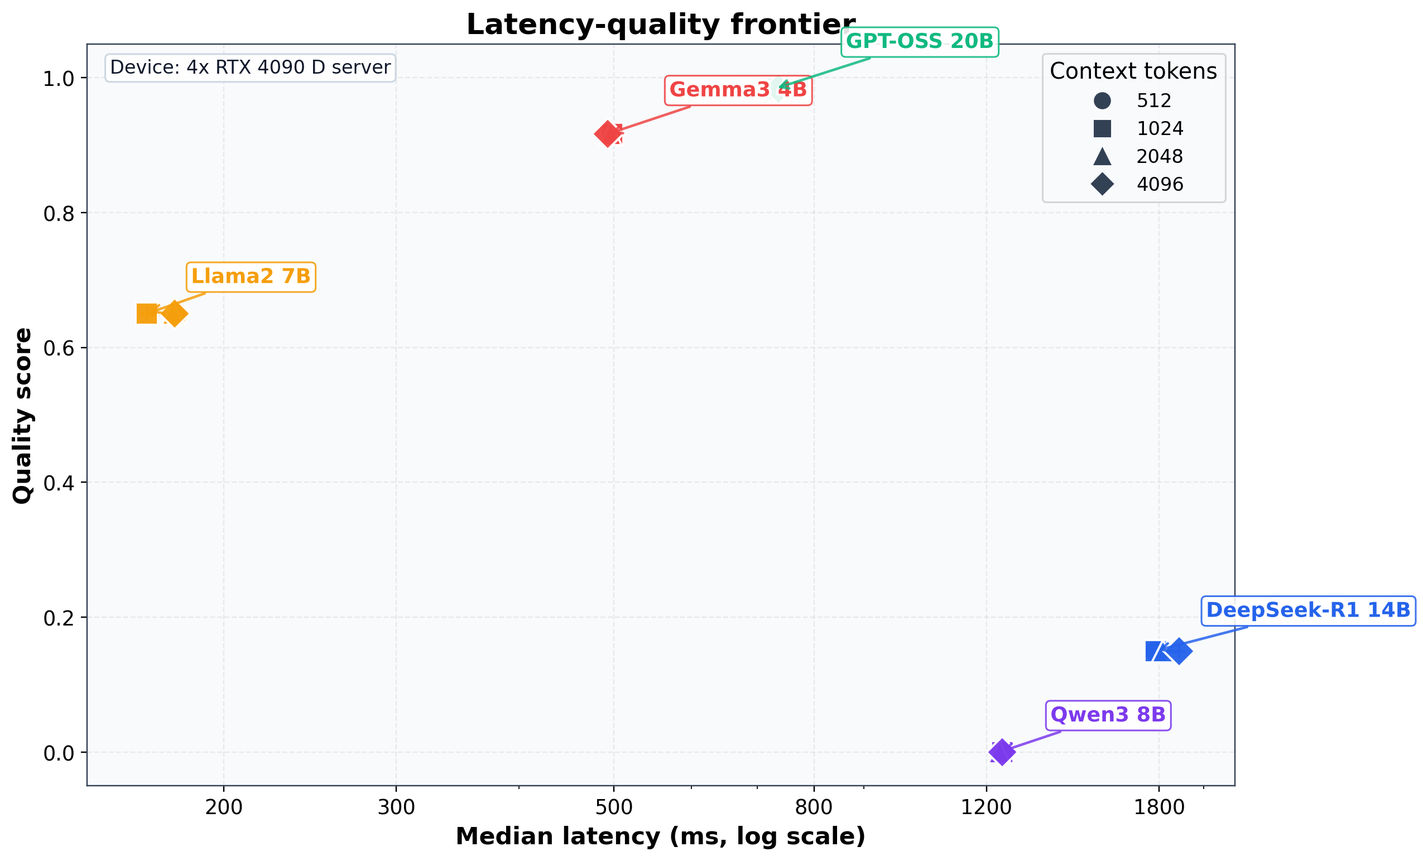
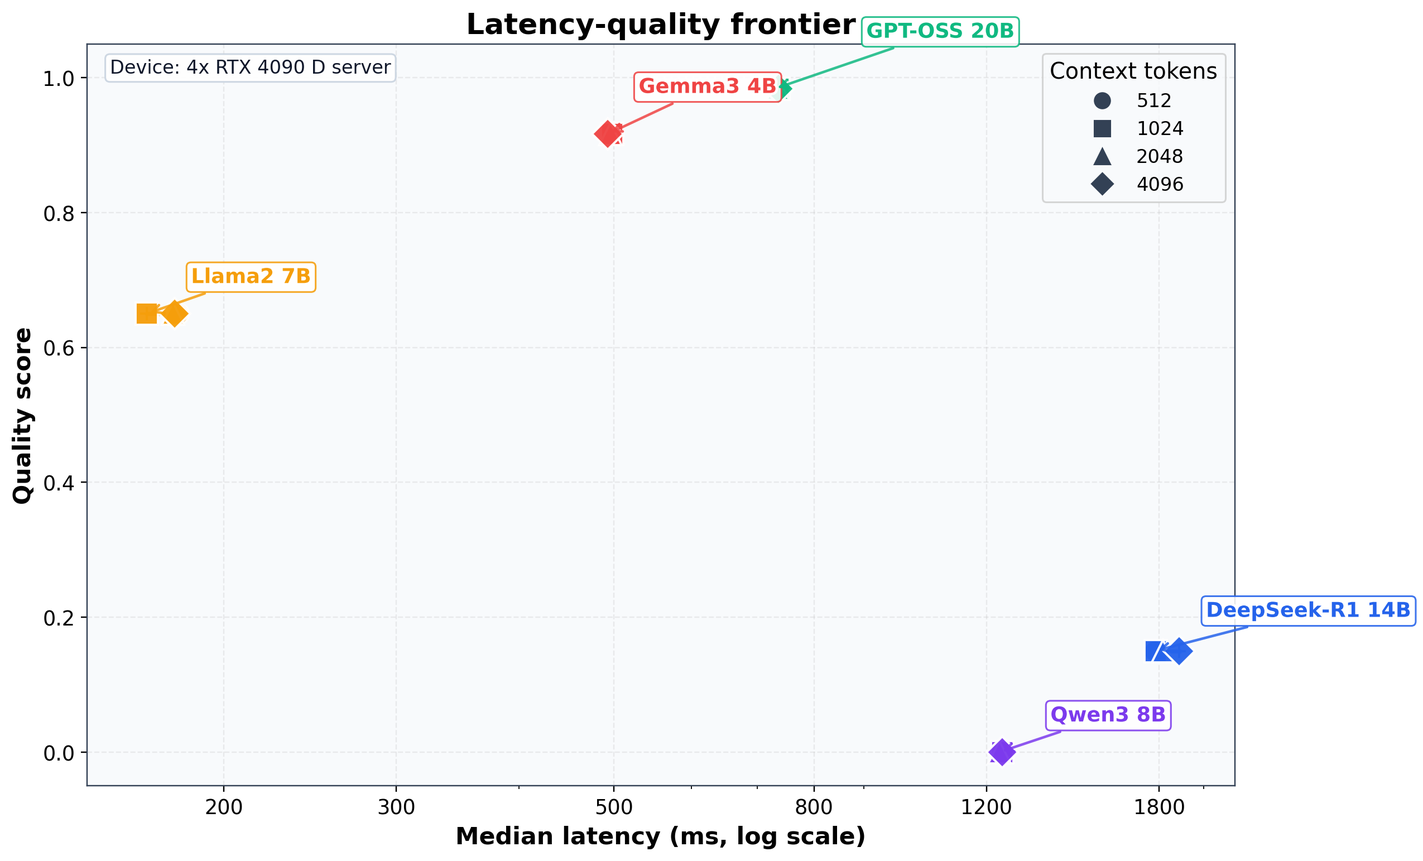
docs: fix figure annotation and enrich reference metadata

Changed region(s): [[0.4337, 0.0, 0.7125, 0.1555]]

diff --git a/README.md b/README.md
@@ -43,8 +43,8 @@ The figure below illustrates a central message of the survey: edge deployment is
 ![Latency-quality frontier on edge hardware](assets/latency-quality-frontier.png)
 
 Figure note:
-- EN: A synchronized benchmark on a 4x RTX 4090 D server shows that GPT-OSS 20B leads on quality, Llama2 7B remains attractive on latency/efficiency, and Gemma3 4B occupies a balanced region. This is exactly why edge deployment must be analyzed as a trade-off surface rather than a single ranking.
-- 中文：在 4x RTX 4090 D 平台上的同步实验表明，GPT-OSS 20B 在质量上更强，Llama2 7B 在时延/效率上仍具吸引力，Gemma3 4B 则处于相对平衡的位置。这说明边缘部署必须以“权衡前沿”而不是“单一排名”来分析。
+- EN: A synchronized benchmark on a 4x RTX 4090 D server shows that GPT-OSS 20B is the green upper-right cluster around 730 ms and 0.98 quality, Llama2 7B remains attractive on latency/efficiency, and Gemma3 4B is the red cluster centered near 495 ms and 0.92 quality. This is exactly why edge deployment must be analyzed as a trade-off surface rather than a single ranking.
+- 中文：在 4x RTX 4090 D 平台上的同步实验表明，GPT-OSS 20B 对应图中右上方的绿色点簇，约位于 730 ms 和 0.98 质量附近；Llama2 7B 在时延/效率上仍具吸引力；Gemma3 4B 对应约 495 ms 和 0.92 质量附近的红色点簇。这说明边缘部署必须以“权衡前沿”而不是“单一排名”来分析。
 
 ## Taxonomy | 分类框架
 
@@ -78,73 +78,77 @@ The list below emphasizes representative papers that help readers quickly unders
 
 下列文献优先选择具有代表性的工作，用于帮助读者快速把握各类别对边缘部署研究分别解决了什么问题。
 
+Direct links are added where a stable publisher page or arXiv record is available.
+
+在存在稳定出版社页面或 arXiv 记录时，下面条目补充了直达链接。
+
 ### A. Foundations
 
-- Shi et al., Edge Computing: Vision and Challenges, IEEE IoT Journal, 2016. Defines the classical edge-computing setting and the resource bottlenecks inherited by later LLM systems.
-- Zhou et al., Edge Intelligence, Proceedings of the IEEE, 2019. Frames AI-at-the-edge as a joint problem of orchestration, service quality, and distributed resource management.
-- Deng et al., Edge intelligence: The confluence of edge computing and AI, IEEE IoT Journal, 2020. Provides the broader pre-LLM systems context needed to understand why edge intelligence evolved toward cognitive edge computing.
+- Shi et al., [Edge Computing: Vision and Challenges](https://doi.org/10.1109/jiot.2016.2579198), IEEE IoT Journal, 2016. Defines the classical edge-computing setting and the resource bottlenecks inherited by later LLM systems.
+- Zhou et al., [Edge Intelligence: Paving the Last Mile of Artificial Intelligence with Edge Computing](https://doi.org/10.1109/jproc.2019.2918951), Proceedings of the IEEE, 2019. Frames AI-at-the-edge as a joint problem of orchestration, service quality, and distributed resource management.
+- Deng et al., [Edge intelligence: The confluence of edge computing and artificial intelligence](https://doi.org/10.1109/jiot.2020.2984887), IEEE IoT Journal, 2020. Provides the broader pre-LLM systems context needed to understand why edge intelligence evolved toward cognitive edge computing.
 - Vaswani et al., Attention Is All You Need, NeurIPS, 2017. Supplies the transformer foundation on which most deployable language models are built.
 - Brown et al., Language Models are Few-Shot Learners, NeurIPS, 2020. Establishes scale-driven in-context learning as the capability target that edge deployment tries to preserve.
 - Wei et al., Emergent Abilities of Large Language Models, TMLR, 2022. Explains why scaling changes model behavior and why compression must protect more than perplexity alone.
-- Lu et al., Small Language Models: Survey, Measurements, and Insights, 2024. Maps the compact-model design space that is most relevant to realistic edge deployment.
-- Zheng et al., A Review on Edge Large Language Models: Design, Execution, and Applications, ACM CSUR, 2025. Serves as the closest neighboring review focused specifically on edge-side LLM execution.
+- Lu et al., [Small Language Models: Survey, Measurements, and Insights](https://arxiv.org/abs/2409.15790), 2024. Maps the compact-model design space that is most relevant to realistic edge deployment.
+- Zheng et al., [A Review on Edge Large Language Models: Design, Execution, and Applications](https://doi.org/10.1145/3719664), ACM CSUR, 2025. Serves as the closest neighboring review focused specifically on edge-side LLM execution.
 
 ### B. Deployment Challenges
 
 - Gholami et al., A Survey of Quantization Methods for Efficient Neural Network Inference, 2022. Summarizes the compression toolbox that underlies most practical edge-model reduction pipelines.
-- Nagel et al., A White Paper on Neural Network Quantization, 2021. Clarifies calibration errors, accuracy collapse, and other quantization failure modes faced in deployment.
-- Kwon et al., Efficient Memory Management for LLM Serving with PagedAttention, SOSP, 2023. Demonstrates that serving memory and KV-cache behavior are first-order bottlenecks, not secondary implementation details.
-- Murthy et al., MobileAIBench: Benchmarking LLMs/LMMs for On-Device Use Cases, 2024. Provides a device-relevant benchmark basis for assessing realistic mobile and on-device workloads.
-- Xiao et al., Understanding Large Language Models in Your Pockets, 2024. Characterizes the actual runtime behavior of pocket-scale inference on commodity mobile platforms.
-- Han et al., LLM Multi-Agent Systems: Challenges and Open Problems, 2024. Highlights how planning, communication, and tool-use loops amplify latency, cost, and safety pressure at the edge.
+- Nagel et al., [A White Paper on Neural Network Quantization](https://arxiv.org/abs/2106.08295), 2021. Clarifies calibration errors, accuracy collapse, and other quantization failure modes faced in deployment.
+- Kwon et al., [Efficient Memory Management for Large Language Model Serving with PagedAttention](https://doi.org/10.1145/3600006.3613165), SOSP, 2023. Demonstrates that serving memory and KV-cache behavior are first-order bottlenecks, not secondary implementation details.
+- Murthy et al., [MobileAIBench: Benchmarking LLMs/LMMs for On-Device Use Cases](https://arxiv.org/abs/2406.10290), 2024. Provides a device-relevant benchmark basis for assessing realistic mobile and on-device workloads.
+- Xiao et al., [Understanding Large Language Models in Your Pockets: Performance Study on COTS Mobile Devices](https://arxiv.org/abs/2410.03613), 2024. Characterizes the actual runtime behavior of pocket-scale inference on commodity mobile platforms.
+- Han et al., [LLM Multi-Agent Systems: Challenges and Open Problems](https://arxiv.org/abs/2402.03578), 2024. Highlights how planning, communication, and tool-use loops amplify latency, cost, and safety pressure at the edge.
 - Carlini et al., Extracting Training Data from Large Language Models, USENIX Security, 2021. Anchors the privacy-leakage threat model that remains relevant for sensitive edge workloads.
-- Dwork and Roth, The Algorithmic Foundations of Differential Privacy, 2014. Provides the formal privacy framework most often used when edge AI must satisfy data minimization requirements.
+- Dwork and Roth, [The Algorithmic Foundations of Differential Privacy](https://doi.org/10.1561/0400000042), 2014. Provides the formal privacy framework most often used when edge AI must satisfy data minimization requirements.
 
 ### C. Optimization Strategies
 
-- Qin et al., On-device Personalization with Data Selection and Synthesis, DAC, 2024. Represents the data-centric path, showing that deployment quality can be improved without relying only on larger models.
+- Qin et al., [Enabling On-Device Large Language Model Personalization with Self-Supervised Data Selection and Synthesis](https://doi.org/10.1145/3649329.3655665), DAC, 2024. Represents the data-centric path, showing that deployment quality can be improved without relying only on larger models.
 - Jacob et al., Quantization and Training for Integer-Arithmetic-Only Inference, CVPR, 2018. Supplies an early efficient-inference baseline that still informs integer-oriented deployment practice.
 - Frantar et al., GPTQ, ICLR, 2023. Became a standard post-training quantization reference for preserving LLM quality under aggressive compression.
 - Dettmers et al., QLoRA, NeurIPS, 2023. Shows how efficient fine-tuning can be layered on top of quantized models rather than replacing them.
-- Tan et al., MobileQuant, EMNLP Findings, 2024. Targets mobile-specific constraints and therefore connects compression decisions with actual device behavior.
-- Jeon et al., A Frustratingly Easy Post-Training Quantization Scheme for LLMs, EMNLP, 2023. Provides a strong lightweight PTQ baseline for practical comparisons.
+- Tan et al., [MobileQuant: Mobile-friendly Quantization for On-device Language Models](https://doi.org/10.18653/v1/2024.findings-emnlp.570), EMNLP Findings, 2024. Targets mobile-specific constraints and therefore connects compression decisions with actual device behavior.
+- Jeon et al., [A Frustratingly Easy Post-Training Quantization Scheme for LLMs](https://doi.org/10.18653/v1/2023.emnlp-main.892), EMNLP, 2023. Provides a strong lightweight PTQ baseline for practical comparisons.
 - Lin et al., AWQ, ML Systems, 2024. Uses activation-aware quantization to improve the quality-efficiency balance relevant to deployment.
 - Dao, FlashAttention-2, ICLR, 2024. Represents kernel-level acceleration for attention-dominated inference paths.
 - Li et al., EAGLE-2, EMNLP, 2024. Illustrates decoding-side acceleration where the latency gains come from generation strategy, not only from compression.
-- Zhao et al., QSpec, 2024. Highlights the interaction between speculative decoding and quantized execution.
-- Tian et al., Edge-Cloud Collaborative Inference (Survey), 2024. Summarizes how selective cloud assistance can be integrated when pure local execution is insufficient.
-- Zhang et al., EdgeShard, IEEE IoTJ, 2024. Gives a concrete systems example of collaborative inference across edge resources.
+- Zhao et al., [QSpec: Speculative Decoding with Complementary Quantization Schemes](https://arxiv.org/abs/2410.11305), 2024. Highlights the interaction between speculative decoding and quantized execution.
+- Tian et al., [An Edge-Cloud Collaboration Framework for Generative AI Service Provision with Synergetic Big Cloud Model and Small Edge Models](https://doi.org/10.1109/mnet.2024.3420755), IEEE Network, 2024. Summarizes how selective cloud assistance can be integrated when pure local execution is insufficient.
+- Zhang et al., [EdgeShard: Efficient LLM Inference via Collaborative Edge Computing](https://doi.org/10.1109/jiot.2024.3524255), IEEE IoTJ, 2024. Gives a concrete systems example of collaborative inference across edge resources.
 
 ### D. Agentic Intelligence
 
-- Dorri et al., Multi-agent Systems: A Survey, IEEE Access, 2018. Provides the classical coordination vocabulary behind later LLM-agent interaction patterns.
+- Dorri et al., [Multi-agent Systems: A Survey](https://doi.org/10.1109/access.2018.2831228), IEEE Access, 2018. Provides the classical coordination vocabulary behind later LLM-agent interaction patterns.
 - Shen et al., HuggingGPT, 2023. Offers an early influential example of tool-augmented orchestration rather than single-model prompting.
 - Han et al., LLM Multi-Agent Systems, 2024. Summarizes the major system risks, communication overheads, and coordination costs introduced by multi-agent designs.
-- Yan et al., Communication-Centric Survey of LLM-based Multi-Agent Systems, 2025. Is especially useful for edge settings where communication cost and message topology directly affect feasibility.
-- Belcak et al., Small Language Models are the Future of Agentic AI, 2025. Makes the practical case that SLM-first agents are often better aligned with deployment constraints.
-- Gao et al., A Survey of Self-Evolving Agents, 2025. Covers adaptive agent pipelines where policies and behaviors continue to improve after initial deployment.
-- Rivkin et al., AIoT Smart Home via Autonomous LLM Agents, 2024. Grounds the agent discussion in a concrete edge-resident smart-home case.
+- Yan et al., [Beyond Self-Talk: A Communication-Centric Survey of LLM-based Multi-Agent Systems](https://arxiv.org/abs/2502.14321), 2025. Is especially useful for edge settings where communication cost and message topology directly affect feasibility.
+- Belcak et al., [Small Language Models are the Future of Agentic AI](https://arxiv.org/abs/2506.02153), 2025. Makes the practical case that SLM-first agents are often better aligned with deployment constraints.
+- Gao et al., [A Survey of Self-Evolving Agents: On Path to Artificial Super Intelligence](https://arxiv.org/abs/2507.21046), 2025. Covers adaptive agent pipelines where policies and behaviors continue to improve after initial deployment.
+- Rivkin et al., [AIoT Smart Home via Autonomous LLM Agents](https://doi.org/10.1109/jiot.2024.3471904), 2024. Grounds the agent discussion in a concrete edge-resident smart-home case.
 
 ### E. Applications
 
-- Abdin et al., Phi-4 Technical Report, 2024. Represents compact but capable model design that is directly relevant to edge-side comparison.
-- Team Gemma, Gemma Technical Report, 2024. Serves as a widely adopted open baseline for deployable language inference.
+- Abdin et al., [Phi-4 Technical Report](https://arxiv.org/abs/2412.08905), 2024. Represents compact but capable model design that is directly relevant to edge-side comparison.
+- Team Gemma, [Gemma: Open Models Based on Gemini Research and Technology](https://arxiv.org/abs/2403.08295), 2024. Serves as a widely adopted open baseline for deployable language inference.
 - Mehta et al., OpenELM, 2024. Emphasizes efficiency-aware model design instead of treating compression as an afterthought.
-- Marone et al., mmBERT, 2025. Provides a multilingual encoder reference for retrieval-heavy pipelines that may run near the data source.
-- Chiu et al., V2V-LLM for Cooperative Autonomous Driving, 2025. Illustrates cooperative vehicular reasoning where edge latency and coordination both matter.
-- Hu et al., LLM-based Misbehavior Detection for Connected Autonomous Vehicles, 2025. Shows how edge intelligence is used for safety-sensitive transport monitoring.
-- Ren et al., Industrial IoT with LLMs, 2024. Extends the discussion into industrial environments with stronger reliability and control constraints.
-- Hu et al., Realizing Efficient On-Device Language-Based Image Retrieval, 2024. Demonstrates a concrete multimodal retrieval workload that fits constrained devices.
+- Marone et al., [mmBERT: A Modern Multilingual Encoder with Annealed Language Learning](https://arxiv.org/abs/2509.06888), 2025. Provides a multilingual encoder reference for retrieval-heavy pipelines that may run near the data source.
+- Chiu et al., [V2V-LLM: Vehicle-to-Vehicle Cooperative Autonomous Driving with Multi-Modal Large Language Models](https://arxiv.org/abs/2502.09980), 2025. Illustrates cooperative vehicular reasoning where edge latency and coordination both matter.
+- Hu et al., [LLM-based Misbehavior Detection Architecture for Enhanced Traffic Safety in Connected Autonomous Vehicles](https://doi.org/10.1109/tvt.2025.3551327), 2025. Shows how edge intelligence is used for safety-sensitive transport monitoring.
+- Ren et al., [Industrial Internet of Things with Large Language Models (LLMs): an Intelligence-based Reinforcement Learning Approach](https://doi.org/10.1109/tmc.2024.3522130), 2024. Extends the discussion into industrial environments with stronger reliability and control constraints.
+- Hu et al., [Realizing Efficient On-Device Language-Based Image Retrieval](https://doi.org/10.1145/3649896), 2024. Demonstrates a concrete multimodal retrieval workload that fits constrained devices.
 
 ### F. Evaluation and Trust
 
-- Strubell et al., Energy and Policy Considerations for Modern Deep Learning Research, AAAI, 2020. Reminds the field that efficiency and environmental cost must be reported rather than left implicit.
+- Strubell et al., [Energy and Policy Considerations for Modern Deep Learning Research](https://doi.org/10.1609/aaai.v34i09.7123), AAAI, 2020. Reminds the field that efficiency and environmental cost must be reported rather than left implicit.
 - Dwork and Roth, The Algorithmic Foundations of Differential Privacy, 2014. Remains the core privacy baseline for sensitive edge workloads.
-- Laskaridis et al., Mobile and Edge Evaluation of LLMs, 2024. Helps define realistic benchmarking methodology for edge-oriented model comparison.
+- Laskaridis et al., [Mobile and Edge Evaluation of Large Language Models](https://doi.org/10.36227/techrxiv.172115025.57884352/v1), 2024. Helps define realistic benchmarking methodology for edge-oriented model comparison.
 - Murthy et al., MobileAIBench, 2024. Supports cross-model evaluation on tasks and devices closer to actual deployment practice.
 - Oliinyk et al., Fuzzing BusyBox with LLM support, USENIX Security, 2024. Shows that LLM-assisted security tooling is now relevant to embedded software stacks.
 - Ma et al., LLM-assisted fuzzing of IoT device stacks, USENIX Security, 2024. Connects model-assisted reasoning with concrete IoT vulnerability discovery workflows.
-- Gilbert et al., Large Language Model AI Chatbots Require Approval as Medical Devices, Nature Medicine, 2023. Highlights the governance and regulatory implications of deploying language systems in sensitive domains.
+- Gilbert et al., [Large Language Model AI Chatbots Require Approval as Medical Devices](https://doi.org/10.1038/s41591-023-02412-6), Nature Medicine, 2023. Highlights the governance and regulatory implications of deploying language systems in sensitive domains.
 
 ## Recent Highlights (2024-2025) | 近两年重点文献
 
@@ -154,12 +158,12 @@ This line of work pushes edge deployment from proof-of-concept execution toward 
 
 这一方向的研究正把边缘部署从“能跑起来”推进到“可稳定服务”，重点同时优化启动开销、生成时延、显存占用与硬件利用率。
 
-- PowerInfer-2: fast smartphone LLM inference with stronger practical device orientation (2024).
-- EdgeLLM: speculative decoding targeted at fast on-device inference (2024).
-- SwapMoE: tunable-memory serving for off-the-shelf MoE models (2024).
-- Fast on-device LLM inference with NPUs: highlights the growing importance of mobile accelerator backends (2025).
-- Lincoln: pushes very large-model inference closer to consumer-device feasibility (2025).
-- Marlin: mixed-precision autoregressive inference optimization for high-throughput serving (2025).
+- [PowerInfer-2: Fast Large Language Model Inference on a Smartphone](https://arxiv.org/abs/2406.06282). arXiv, 2024. A strong reference for phone-class large-model execution.
+- [EdgeLLM: Fast On-Device LLM Inference with Speculative Decoding](https://doi.org/10.1109/tmc.2024.3513457). IEEE Transactions on Mobile Computing, 2024. Shows how decoding policy directly changes on-device latency.
+- [SwapMoE: Serving Off-the-shelf MoE-based Large Language Models with Tunable Memory Budget](https://doi.org/10.18653/v1/2024.acl-long.363). ACL, 2024. Highlights memory-budget-aware serving for sparse expert models.
+- [Fast On-Device LLM Inference with NPUs](https://doi.org/10.1145/3669940.3707239). ASPLOS, 2025. Demonstrates the growing importance of mobile accelerator backends.
+- [Lincoln: Real-Time 50-100B LLM Inference on Consumer Devices with LPDDR-Interfaced, Compute-Enabled Flash Memory](https://doi.org/10.1109/hpca61900.2025.00128). HPCA, 2025. Pushes very large-model inference closer to consumer-device feasibility.
+- [Marlin: Mixed-precision Auto-regressive Parallel Inference on Large Language Models](https://doi.org/10.1145/3710848.3710871). PPoPP, 2025. Optimizes high-throughput serving through mixed-precision generation.
 
 ### Collaboration and Routing
 
@@ -167,11 +171,11 @@ Recent collaboration work treats routing as a first-class control problem: decid
 
 近期协同研究把路由本身视为一类核心控制问题，即在时延与质量约束下，决定何时本地执行、何时边缘分片、何时升级到更强的远端模型。
 
-- EdgeShard: collaborative edge inference as a systems-level solution to memory and load limits (2024).
-- QoS-aware LLM routing with multiple experts: explicit service-quality optimization for edge routing (2025).
-- CLONE: latency-aware model customization for edge environments (2025).
-- Device-server collaborative text streaming: practical collaborative service design (2025).
-- Federated black-box prompt tuning on the edge: collaboration without centralized raw-data exposure (2024).
+- [EdgeShard: Efficient LLM Inference via Collaborative Edge Computing](https://doi.org/10.1109/jiot.2024.3524255). IEEE Internet of Things Journal, 2024. Frames collaboration as a systems-level response to memory and load limits.
+- [Quality-of-Service Aware LLM Routing for Edge Computing with Multiple Experts](https://doi.org/10.1109/tmc.2025.3590969). IEEE Transactions on Mobile Computing, 2025. Treats routing as an explicit service-quality optimization problem.
+- [CLONE: Customizing LLMs for Efficient Latency-Aware Inference at the Edge](https://arxiv.org/abs/2506.02847). arXiv, 2025. Connects edge adaptation with latency-aware customization.
+- [DiSCo: Device-Server Collaborative LLM-Based Text Streaming Services](https://arxiv.org/abs/2502.11417). arXiv, 2025. Provides a concrete collaborative service architecture for streaming outputs.
+- [Federated Black-box Prompt Tuning System for Large Language Models on the Edge](https://doi.org/10.1145/3636534.3698856). MobiCom, 2024. Shows how collaboration can happen without centralizing raw private data.
 
 ### Hardware-Aware Acceleration
 
@@ -179,11 +183,11 @@ Hardware-aware studies make it clear that edge LLM progress is not only algorith
 
 硬件感知方向说明，边缘大模型进展并不只是算法改进，部署效果越来越取决于模型如何映射到 NPU、PIM、FPGA 与低比特 CPU 后端。
 
-- Cambricon-LLM: chiplet-based architecture for very large on-device inference (2024).
-- PAISE: PIM-accelerated transformer scheduling engine (2025).
-- FACIL: SoC-PIM cooperative mapping for on-device LLM inference (2025).
-- T-MAC: low-bit CPU-oriented deployment path for edge inference (2025).
-- FPGA-based spatial acceleration studies: important for specialized embedded deployments (2024-2025).
+- [Cambricon-LLM: A Chiplet-based Hybrid Architecture for On-Device Inference of 70B LLM](https://doi.org/10.1109/micro61859.2024.00108). MICRO, 2024. Explores hardware architecture support for very large on-device models.
+- [PAISE: PIM-Accelerated Inference Scheduling Engine for Transformer-based LLM](https://doi.org/10.1109/hpca61900.2025.00126). HPCA, 2025. Pushes scheduling intelligence into the memory-centric acceleration path.
+- [FACIL: Flexible DRAM Address Mapping for SoC-PIM Cooperative On-device LLM Inference](https://doi.org/10.1109/hpca61900.2025.00127). HPCA, 2025. Focuses on memory mapping and SoC-PIM cooperation.
+- [T-MAC: CPU Renaissance via Table Lookup for Low-bit LLM Deployment on Edge](https://doi.org/10.1145/3689031.3696099). EuroSys, 2025. Reopens the low-bit CPU deployment path for edge inference.
+- [Understanding the Potential of FPGA-based Spatial Acceleration for Large Language Model Inference](https://doi.org/10.1145/3656177). ACM TRETS, 2024, and [Pushing up to the Limit of Memory Bandwidth and Capacity Utilization for Efficient LLM Decoding on Embedded FPGA](https://doi.org/10.23919/date64628.2025.10993087). DATE, 2025. Together they frame FPGA deployment as a specialized but increasingly relevant embedded path.
 
 ### Multimodal and Domain Deployment
 
@@ -191,13 +195,13 @@ The most visible application trend is that edge intelligence is moving beyond te
 
 最明显的应用趋势是，边缘智能正在从纯文本助手扩展到多模态感知、智能家居协同、工业控制与协同交通等场景。
 
-- Self-adapting VLMs for edge modalities (2024).
-- MiniCPM-V on-phone multimodal model (2024).
-- MobileLLM-R1 sub-billion reasoning models (2025).
-- VaVLM for edge-cloud video analytics (2025).
-- Industrial IoT with LLM-based intelligence (2024).
-- AIoT smart home via autonomous LLM agents (2024).
-- V2V-LLM and related vehicle-cooperative reasoning systems (2025).
+- [Self-adapting Large Visual-Language Models to Edge Devices Across Visual Modalities](https://doi.org/10.1007/978-3-031-73390-1_18). ECCV, 2024. Demonstrates modality-aware VLM adaptation for edge conditions.
+- [MiniCPM-V: A GPT-4V Level MLLM on Your Phone](https://arxiv.org/abs/2408.01800). arXiv, 2024. A notable on-phone multimodal deployment reference.
+- [MobileLLM-R1: Exploring the Limits of Sub-Billion Language Model Reasoners with Open Training Recipes](https://arxiv.org/abs/2509.24945). arXiv, 2025. Pushes compact reasoning models into the practical edge range.
+- [VaVLM: Toward Efficient Edge-Cloud Video Analytics With Vision-Language Models](https://doi.org/10.1109/tbc.2025.3549983). IEEE Transactions on Broadcasting, 2025. Extends the survey toward video analytics with edge-cloud cooperation.
+- [Industrial Internet of Things with Large Language Models (LLMs): an Intelligence-based Reinforcement Learning Approach](https://doi.org/10.1109/tmc.2024.3522130). IEEE Transactions on Mobile Computing, 2024. Grounds the industrial edge case with stronger reliability constraints.
+- [AIoT Smart Home via Autonomous LLM Agents](https://doi.org/10.1109/jiot.2024.3471904). IEEE Internet of Things Journal, 2024. Shows autonomous agents embedded in smart-home control loops.
+- [V2V-LLM: Vehicle-to-Vehicle Cooperative Autonomous Driving with Multi-Modal Large Language Models](https://arxiv.org/abs/2502.09980). arXiv, 2025. Represents cooperative mobility and vehicular reasoning at the edge.
 
 ## Evaluation Checklist | 评测清单
 
